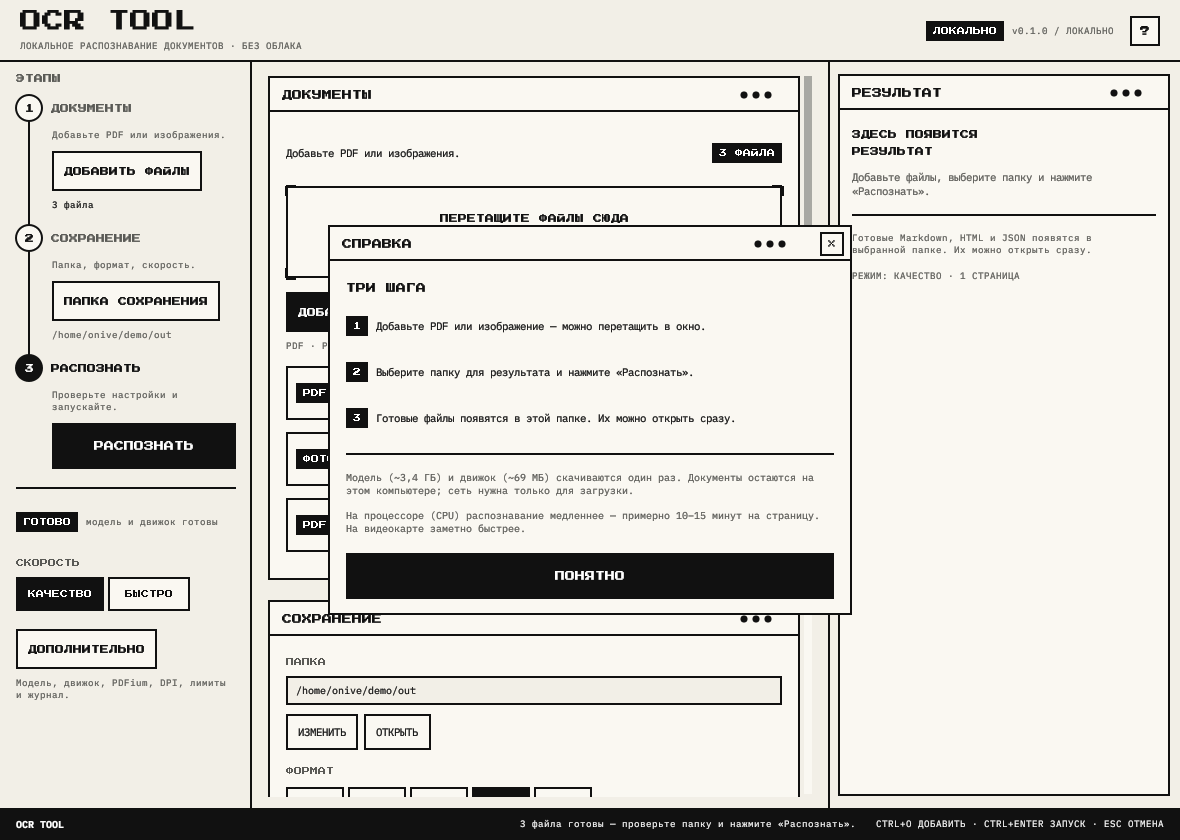
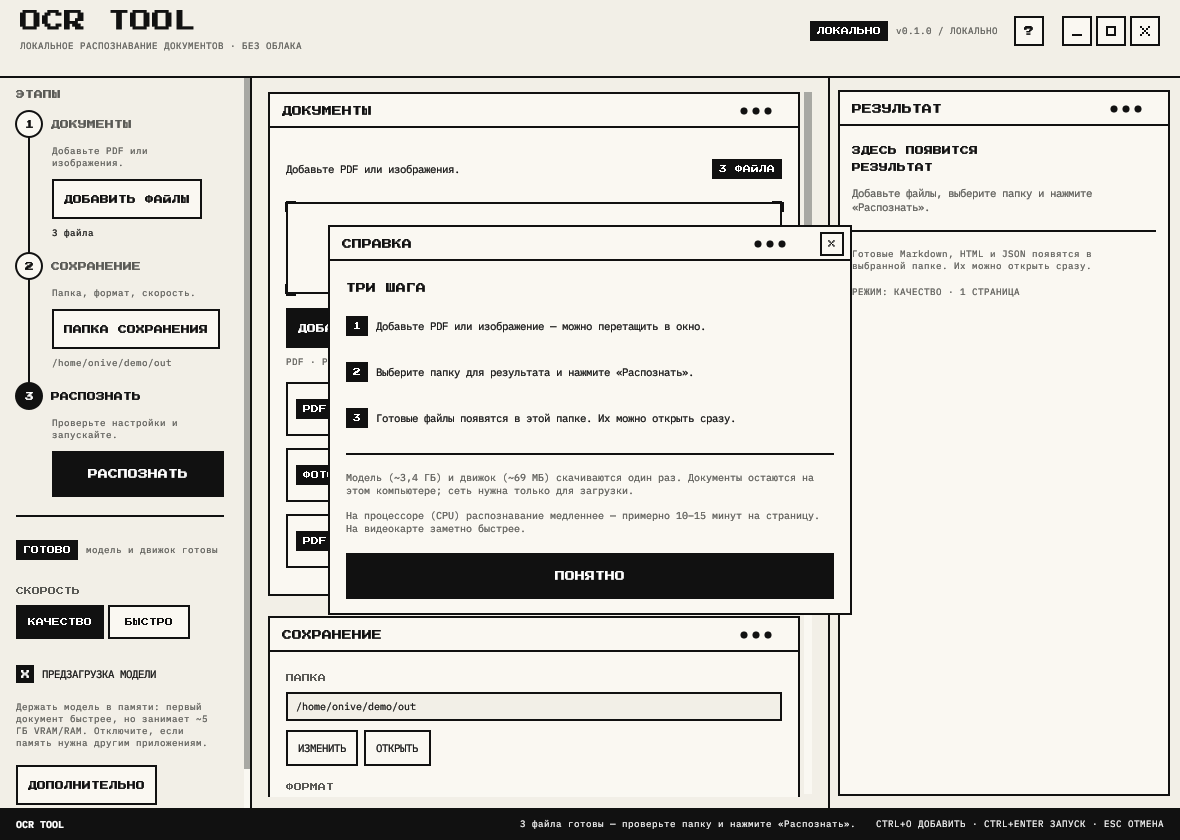
feat(gui): add an open-Markdown button to the result panel
When a report contains a .md output, the result row exposes ОТКРЫТЬ MD between HTML and JSON and opens the first Markdown file. Screenshots are regenerated for the frameless pixel header and the new button.

diff --git a/crates/ocr-gui/src/ui.rs b/crates/ocr-gui/src/ui.rs
@@ -1856,6 +1856,7 @@ fn result_done(app: &mut OcrApp, ui: &mut egui::Ui) {
     };
     let partial = report.documents_failed > 0 || report.pages_failed > 0;
     let html = first_html(&report);
+    let md = first_md(&report);
     let json = first_json(&report);
 
     badge(
@@ -1934,6 +1935,11 @@ fn result_done(app: &mut OcrApp, ui: &mut egui::Ui) {
         if let Some(html) = html {
             if pixel_button(ui, "ОТКРЫТЬ HTML", ButtonKind::Secondary, true).clicked() {
                 app.open_path(&html);
+            }
+        }
+        if let Some(md) = md {
+            if pixel_button(ui, "ОТКРЫТЬ MD", ButtonKind::Secondary, true).clicked() {
+                app.open_path(&md);
             }
         }
         if let Some(json) = json {
@@ -2748,6 +2754,14 @@ fn first_json(report: &ocr_app::JobReport) -> Option<String> {
         .cloned()
 }
 
+fn first_md(report: &ocr_app::JobReport) -> Option<String> {
+    report
+        .outputs
+        .iter()
+        .find(|path| path.to_ascii_lowercase().ends_with(".md"))
+        .cloned()
+}
+
 /// ETA helper used by the download cards. `started` is reset per file so the
 /// estimate is not polluted by a previous model shard.
 pub(crate) fn download_eta(done: u64, total: u64, started: Option<Instant>) -> Option<Duration> {
@@ -3099,6 +3113,32 @@ mod tests {
         assert_eq!(download_eta(0, 100, Some(Instant::now())), None);
         assert_eq!(download_eta(10, 0, Some(Instant::now())), None);
         assert_eq!(download_eta(10, 100, None), None);
+    }
+
+    fn report_with_outputs(outputs: &[&str]) -> ocr_app::JobReport {
+        ocr_app::JobReport {
+            output_dir: "/out".to_string(),
+            documents_ok: 1,
+            documents_failed: 0,
+            pages_ok: 1,
+            pages_failed: 0,
+            cancelled: false,
+            elapsed_ms: 0,
+            device: "cpu".to_string(),
+            model: "local".to_string(),
+            llama_server: "llama-server".to_string(),
+            outputs: outputs.iter().map(|path| path.to_string()).collect(),
+            documents: Vec::new(),
+        }
+    }
+
+    #[test]
+    fn first_md_finds_the_first_markdown_output_case_insensitively() {
+        let report = report_with_outputs(&["/out/a.html", "/out/a.MD", "/out/b.md"]);
+        assert_eq!(first_md(&report).as_deref(), Some("/out/a.MD"));
+
+        let report = report_with_outputs(&["/out/a.html", "/out/a.json"]);
+        assert_eq!(first_md(&report), None);
     }
 
     #[test]

diff --git a/docs/screenshots/pixel-ui/README.md b/docs/screenshots/pixel-ui/README.md
@@ -4,6 +4,10 @@ Captured from the Linux build under headless Xvfb (llvmpipe) with the in-app
 egui screenshot harness; the host GUI was not started.
 
 - Window: 1180×840 (default); `08-min-1000x720.png` is the minimum size.
+- The native Windows decoration is disabled in the app. The top row is the
+  custom pixel title bar: brand on the left; `ЛОКАЛЬНО`, version, `?` and the
+  `—` / `□` / `×` window controls on the right. Under Xvfb there is no window
+  manager, so these shots show the custom bar as the whole window chrome.
 - All visible labels are Russian. Brand and technical names stay as-is:
   `OCR TOOL`, `PDF/PNG/JPEG/TIFF/WebP/BMP`, `HTML/JSON/MD`, `DPI`, `PDFium`,
   `llama-server`, `CTRL/ESC` and the raw log.
